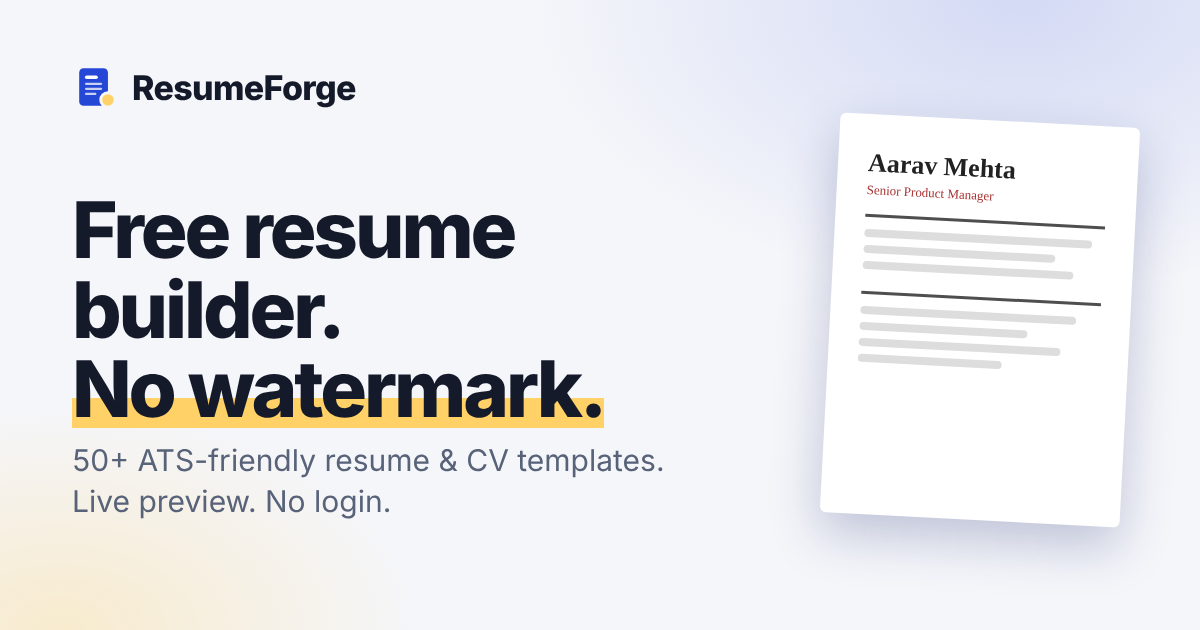
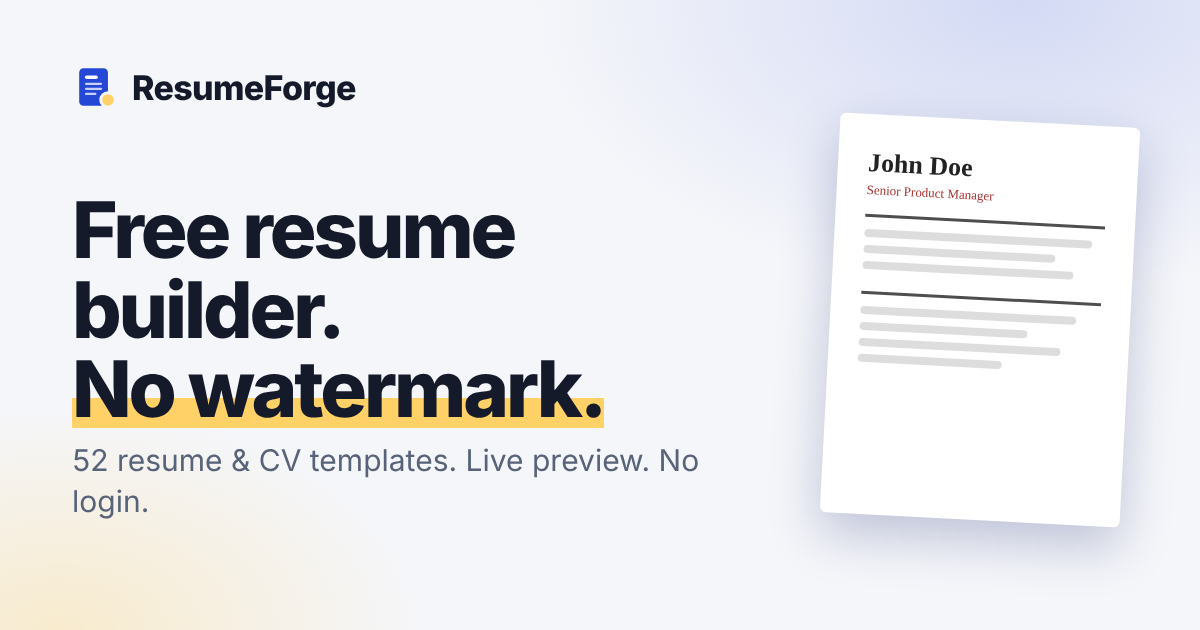
Resume templates: fix alignment, long-content wrapping and rating styles; sample name John Doe
- Bullet lists: '.rs ul { padding: 0 }' overrode list indentation, so markers hung
  outside the text column (worst on timeline and sidebar layouts)
- Text wraps at word level (break-word) so short words are never split mid-word;
  long emails/URLs get break points after @ / . _ instead of arbitrary cuts
- Plain contact lines use real '|' separators and wrap item-by-item
- Contact icons align to the first text line; right-aligned headers put icons on the right
- 'caps' headings use real uppercase instead of synthetic small caps
- Date ranges wrap only at the dash and get more room in two-column layouts
- Skill bars/dots align with the first line of the skill name; language fluency
  drops below the name when it does not fit instead of crushing it
- Long names step down in size; split header with photo keeps the name readable
- Phone numbers stay on one line; long skill tags wrap inside the column
- Sample resume, placeholders, hero mock-up and share image now use John Doe

Claude-Session: https://claude.ai/code/session_016ihc1zL2S7JThyUUN81oTp

Changed region(s): [[0.0617, 0.6937, 0.5858, 0.754], [0.0617, 0.7841, 0.3392, 0.8143], [0.7092, 0.2413, 0.8633, 0.3016]]

diff --git a/src/templates/resume.css b/src/templates/resume.css
@@ -15,7 +15,7 @@
   text-align: left;
   -webkit-print-color-adjust: exact;
   print-color-adjust: exact;
-  overflow-wrap: anywhere;
+  overflow-wrap: break-word;
   color-scheme: light;
 }
 .rs[data-page='Letter'] { width: 215.9mm; min-height: 279.4mm; }
@@ -27,9 +27,17 @@
 .rs-header { display: flex; align-items: center; gap: 5mm; margin-bottom: calc(var(--gap) * 1.1); flex-wrap: wrap; }
 .rs-id { flex: 1 1 60%; min-width: 0; }
 .rs-name { font-family: var(--hf); font-size: 2.35em; line-height: 1.1; font-weight: 700; color: var(--text); letter-spacing: -0.01em; }
+.rs-name[data-len='l'] { font-size: 2.05em; }
+.rs-name[data-len='xl'] { font-size: 1.75em; }
 .rs-title { font-size: 1.18em; color: var(--accent); margin-top: 1.2mm; font-weight: 500; }
 .rs-contacts { display: flex; flex-wrap: wrap; gap: 1mm 4.5mm; font-size: 0.96em; color: var(--muted); width: 100%; }
-.rs-contact { display: inline-flex; align-items: center; gap: 1.4mm; }
+.rs-contact { display: inline-flex; align-items: flex-start; gap: 1.4mm; }
+.rs-contact .rs-ic { margin-top: calc((1lh - 1.05em) / 2); }
+.rs-contacts.inline { display: block; }
+/* Each contact moves to the next line as a whole; only items longer than a line break inside. */
+.rs-contacts.inline .rs-contact { display: inline-block; max-width: 100%; vertical-align: top; }
+.rs-sep { color: color-mix(in srgb, var(--muted) 55%, white); padding: 0 0.6mm; }
+.rs[data-header='banner'] .rs-sep { color: var(--banner-muted); opacity: 0.6; }
 .rs-contacts.stacked { flex-direction: column; gap: 1.8mm; }
 .rs-photo { width: 27mm; height: 27mm; border-radius: 50%; object-fit: cover; flex: none; }
 .rs-photo-ph { display: grid; place-items: center; background: var(--tint); color: var(--accent); font-family: var(--hf); font-weight: 700; font-size: 2em; }
@@ -42,7 +50,15 @@
 .rs[data-header='underline'] .rs-header { border-bottom: 2.2pt solid var(--accent); padding-bottom: 3.5mm; }
 
 .rs[data-header='split'] .rs-header { flex-wrap: nowrap; align-items: flex-end; border-bottom: 1pt solid var(--line); padding-bottom: 3mm; }
-.rs[data-header='split'] .rs-contacts { width: auto; flex: 0 1 44%; flex-direction: column; align-items: flex-end; gap: 0.6mm; text-align: right; }
+.rs[data-header='split'] .rs-id { flex: 1 1 55%; }
+/* With a photo the split header has three parts; keep the name block from being crushed. */
+.rs[data-header='split'] .rs-header:has(.rs-photo) .rs-id { flex: 1 1 0; min-width: 40%; }
+.rs[data-header='split'] .rs-header:has(.rs-photo) .rs-contacts { flex-basis: 38%; }
+.rs[data-header='split'] .rs-header > .rs-photo { width: 22mm; height: 22mm; align-self: center; }
+.rs[data-header='split'] .rs-contacts { width: auto; flex: 0 1 42%; flex-direction: column; align-items: flex-end; gap: 0.6mm; text-align: right; }
+.rs[data-header='split'] .rs-contact { flex-direction: row-reverse; }
+.rs[data-header='split'] .rs-contacts.inline .rs-contact { display: block; }
+.rs[data-header='split'] .rs-contacts.inline .rs-sep { display: none; }
 
 .rs[data-header='banner'] { padding-top: 0; }
 .rs[data-header='banner'] .rs-header {
@@ -62,7 +78,7 @@
 .rs-st { font-family: var(--hf); font-size: 1.12em; font-weight: 700; color: var(--accent); margin-bottom: 2mm; letter-spacing: 0.02em; break-after: avoid; }
 .rs[data-title='rule'] .rs-st { text-transform: uppercase; border-bottom: 0.9pt solid var(--line); padding-bottom: 0.8mm; font-size: 1.02em; letter-spacing: 0.08em; }
 .rs[data-title='double'] .rs-st { text-transform: uppercase; border-top: 0.6pt solid var(--accent); border-bottom: 0.6pt solid var(--accent); padding: 0.8mm 0; text-align: center; letter-spacing: 0.16em; font-size: 0.98em; }
-.rs[data-title='caps'] .rs-st { font-variant: small-caps; text-transform: lowercase; font-size: 1.3em; letter-spacing: 0.06em; border-bottom: 0.5pt solid var(--line); }
+.rs[data-title='caps'] .rs-st { text-transform: uppercase; font-size: 1.04em; letter-spacing: 0.12em; border-bottom: 0.5pt solid var(--line); padding-bottom: 0.6mm; }
 .rs[data-title='bar'] .rs-st { border-left: 1.1mm solid var(--accent); padding-left: 2.2mm; text-transform: uppercase; letter-spacing: 0.08em; font-size: 1em; color: var(--text); }
 .rs[data-title='fill'] .rs-st { background: var(--tint); padding: 0.9mm 2mm; text-transform: uppercase; letter-spacing: 0.1em; font-size: 0.98em; }
 .rs[data-title='dotted'] .rs-st { text-transform: uppercase; letter-spacing: 0.1em; font-size: 1em; border-bottom: 1.2pt dotted var(--accent); padding-bottom: 0.6mm; }
@@ -73,43 +89,52 @@
 .rs-item { break-inside: avoid; }
 .rs-item + .rs-item { margin-top: calc(var(--gap) * 0.62); }
 .rs-row { display: flex; justify-content: space-between; align-items: baseline; gap: 3mm; }
-.rs-head { min-width: 0; }
+.rs-head { min-width: 0; flex: 1 1 auto; }
 .rs-it { font-weight: 700; color: var(--text); }
 .rs-sub { color: var(--text); }
 .rs-sub { display: block; margin-top: .4mm; }
 .rs-it + .rs-sub::before { content: ''; }
-.rs-date { flex: none; font-size: 0.96em; color: var(--muted); max-width: 34%; text-align: right; font-variant-numeric: tabular-nums; }
+.rs-date { flex: 0 0 auto; font-size: 0.96em; color: var(--muted); max-width: 42%; text-align: right; font-variant-numeric: tabular-nums; }
+.rs-nw { white-space: nowrap; }
 .rs-meta { font-size: 0.96em; color: var(--muted); font-style: italic; }
 .rs-p { margin: 0; }
 .rs-small { font-size: 0.96em; color: var(--muted); }
-.rs-ul { margin: 0.8mm 0 0; padding-left: 4.4mm; }
+.rs .rs-ul { margin: 0.8mm 0 0; padding-left: 4.4mm; }
 .rs-ul li { margin: 0.3mm 0; padding-left: 0.6mm; }
 .rs-ul li::marker { color: var(--accent); }
-.rs-ul.rs-plain { list-style: none; padding-left: 0; }
-.rs-ul.rs-plain li::before { content: '▪'; color: var(--accent); margin-right: 1.8mm; font-size: 0.8em; }
+.rs .rs-ul.rs-plain { list-style: none; padding-left: 0; }
+.rs-ul.rs-plain li { display: flex; gap: 1.8mm; padding-left: 0; }
+.rs-ul.rs-plain li::before { content: '▪'; color: var(--accent); font-size: 0.8em; flex: none; }
 
 .rs-tags { display: flex; flex-wrap: wrap; gap: 1.4mm; }
-.rs-tag { border: 0.6pt solid var(--line); background: var(--tint); padding: 0.5mm 2.2mm; border-radius: 1.2mm; font-size: 0.96em; }
+.rs-tag { border: 0.6pt solid var(--line); background: var(--tint); padding: 0.5mm 2.2mm; border-radius: 1.2mm; font-size: 0.96em; min-width: 0; max-width: 100%; }
 .rs-levels { display: flex; flex-direction: column; gap: 1.6mm; }
 .rs-levels.grid { display: grid; grid-template-columns: 1fr 1fr; gap: 1.6mm 8mm; }
-.rs-level { display: flex; align-items: center; justify-content: space-between; gap: 3mm; }
-.rs-bar { display: block; flex: 0 0 44%; height: 1.4mm; background: color-mix(in srgb, var(--accent) 16%, white); border-radius: 1mm; overflow: hidden; }
+.rs-level { display: flex; align-items: flex-start; justify-content: space-between; gap: 3mm; }
+.rs-level > span:first-child { min-width: 0; flex: 1 1 auto; }
+.rs-level > .rs-bar { margin-top: calc(0.5lh - 0.7mm); }
+.rs-level > .rs-dots { margin-top: calc(0.5lh - 1mm); }
+.rs-bar { display: block; flex: 0 0 40%; height: 1.4mm; background: color-mix(in srgb, var(--accent) 16%, white); border-radius: 1mm; overflow: hidden; }
 .rs-levels:not(.grid) .rs-level { flex-direction: column; align-items: stretch; gap: 0.8mm; }
-.rs-levels:not(.grid) .rs-bar { flex: none; width: 100%; }
-.rs-levels:not(.grid) .rs-level:has(.rs-dots) { flex-direction: row; align-items: center; }
+.rs-levels:not(.grid) .rs-bar { flex: none; width: 100%; margin-top: 0; }
+.rs-levels:not(.grid) { gap: 2.4mm; }
+.rs-levels:not(.grid) .rs-level:has(.rs-dots) { flex-direction: row; align-items: flex-start; }
 .rs-bar i { display: block; height: 100%; background: var(--accent); border-radius: 1mm; }
 .rs-dots { display: inline-flex; gap: 0.9mm; flex: none; }
 .rs-dots i { width: 2mm; height: 2mm; border-radius: 50%; border: 0.6pt solid var(--accent); }
 .rs-dots i.on { background: var(--accent); }
 .rs-kv { display: flex; flex-direction: column; gap: 1mm; }
-.rs-kv > div { display: flex; justify-content: space-between; gap: 2mm; }
+.rs-kv > div { display: flex; flex-wrap: wrap; justify-content: space-between; column-gap: 2mm; }
+/* Fits on one line: fluency sits at the right edge. Too long: it drops below the name, left-aligned. */
+.rs-kv > div > span { flex: 1 0 auto; max-width: 100%; }
+.rs-kv em { flex: 0 1 auto; text-align: left; }
 .rs-kv em { color: var(--muted); font-style: normal; font-size: 0.96em; }
 
 /* ===== Layout: sidebar ===== */
 .rs[data-layout='sidebar'] { display: grid; grid-template-columns: 32% minmax(0, 1fr); padding: 0; }
 .rs[data-layout='sidebar'][data-side='right'] { grid-template-columns: minmax(0, 1fr) 32%; }
 .rs[data-layout='sidebar'][data-side='right'] .rs-side { order: 2; }
-.rs-side { background: var(--side-bg); color: var(--side-fg); padding: var(--pad) calc(var(--pad) * 0.75); display: flex; flex-direction: column; }
+.rs-side { background: var(--side-bg); color: var(--side-fg); padding: var(--pad) calc(var(--pad) * 0.62); display: flex; flex-direction: column; }
 .rs-side .rs-photo { width: 34mm; height: 34mm; margin: 0 auto calc(var(--gap)); border: 1mm solid color-mix(in srgb, var(--side-fg) 18%, transparent); }
 .rs-side .rs-sec:first-of-type { margin-top: 0; }
 .rs-side .rs-st { color: var(--side-accent); border-color: color-mix(in srgb, var(--side-fg) 30%, transparent); }
@@ -161,10 +186,10 @@
 .rs[data-layout='minimal'] .rs-ul li::marker { color: var(--muted); }
 
 /* Readable links and restrained supporting information, also preserved in PDF. */
-.rs a { color: inherit; text-decoration: underline; text-underline-offset: .15em; overflow-wrap: anywhere; }
+.rs a { color: inherit; text-decoration: underline; text-underline-offset: .15em; }
 .rs-contacts a { text-decoration-thickness: .5pt; }
 .rs-contact { min-width: 0; max-width: 100%; }
-.rs-contact > span, .rs-contact > a { min-width: 0; }
+.rs-contact > span, .rs-contact > a, .rs-header > .rs-contacts { min-width: 0; }
 .rs-skill-groups { display: flex; flex-direction: column; gap: 1.6mm; }
 .rs[data-layout='sidebar'] .rs-date, .rs-aside .rs-date { max-width: none; text-align: left; }
 .rs[data-layout='labels'] .rs-st { overflow-wrap: normal; hyphens: auto; }

diff --git a/src/templates/Resume.jsx b/src/templates/Resume.jsx
@@ -6,6 +6,38 @@ import { bulletsOf, sectionTitle, SIDE_SECTIONS } from '../data/schema.js';
 const range = (a, b) => [a, b].filter(Boolean).join(' – ');
 const has = (v) => v != null && String(v).trim() !== '';
 
+// Date range that only wraps at the dash ("September 2019 –" / "Present"), never inside a date.
+function DateRange({ a, b }) {
+  const parts = [a, b].filter(has);
+  return parts.map((x, i) => (
+    <React.Fragment key={i}>
+      {i > 0 && ' – '}
+      <span className="rs-nw">{x}</span>
+    </React.Fragment>
+  ));
+}
+
+// Long URLs/emails: offer line-break points after / @ . _ ? & = so they wrap at sensible places
+// instead of mid-word. <wbr> adds no characters, so copied/parsed text is unchanged.
+function Breakable({ text }) {
+  const str = String(text);
+  const parts = str.split(/(?<=[/@._?&=])/);
+  let seen = 0;
+  return parts.map((x, i) => {
+    const prev = parts[i - 1];
+    seen += x.length;
+    // Always allow a break after "@"; elsewhere only if a decent chunk follows,
+    // so "email.com" or "about/me" never leave a lonely "com" / "me" on the next line.
+    const ok = i > 0 && (/@$/.test(prev) || str.length - (seen - x.length) > 6);
+    return (
+      <React.Fragment key={i}>
+        {ok && <wbr />}
+        {x}
+      </React.Fragment>
+    );
+  });
+}
+
 const Icon = ({ k }) => {
   const p = {
     email: 'M3 5h18v14H3z M3 6l9 7 9-7',
@@ -25,7 +57,8 @@ const Icon = ({ k }) => {
 function Link({ value, kind }) {
   const href = kind ? contactHref(kind, value) : webHref(value);
   const label = ['email', 'phone', 'location'].includes(kind) ? value : linkLabel(value);
-  return href ? <a href={href} target={href.startsWith('http') ? '_blank' : undefined} rel="noopener noreferrer">{label}</a> : <span>{value}</span>;
+  const content = kind === 'phone' ? <span className="rs-nw">{label}</span> : kind === 'location' ? label : <Breakable text={label} />;
+  return href ? <a href={href} target={href.startsWith('http') ? '_blank' : undefined} rel="noopener noreferrer">{content}</a> : <span>{content}</span>;
 }
 
 const CONTACT_KEYS = ['email', 'phone', 'location', 'website', 'linkedin', 'github'];
@@ -33,6 +66,18 @@ const CONTACT_KEYS = ['email', 'phone', 'location', 'website', 'linkedin', 'gith
 function Contacts({ p, icons, stacked }) {
   const items = CONTACT_KEYS.filter((k) => has(p[k]));
   if (!items.length) return null;
+  if (!icons && !stacked)
+    // Plain text line with real "|" separators: easy for ATS parsers to split, and lines only break after a separator.
+    return (
+      <div className="rs-contacts inline">
+        {items.map((k, i) => (
+          <React.Fragment key={k}>
+            <span className="rs-contact"><Link kind={k} value={p[k]} /></span>
+            {i < items.length - 1 && <span className="rs-sep">{'\u00a0| '}</span>}
+          </React.Fragment>
+        ))}
+      </div>
+    );
   return (
     <div className={'rs-contacts' + (stacked ? ' stacked' : '')}>
       {items.map((k) => (
@@ -69,6 +114,7 @@ function Bullets({ text }) {
 }
 
 function Entry({ title, sub, date, meta, link, children }) {
+  const hasDate = Array.isArray(date) ? date.some(has) : has(date);
   return (
     <div className="rs-item">
       <div className="rs-row">
@@ -76,7 +122,7 @@ function Entry({ title, sub, date, meta, link, children }) {
           {has(title) && <span className="rs-it">{title}</span>}
           {has(sub) && <span className="rs-sub">{link ? <Link value={sub} /> : sub}</span>}
         </div>
-        {has(date) && <div className="rs-date">{date}</div>}
+        {hasDate && <div className="rs-date">{Array.isArray(date) ? <DateRange a={date[0]} b={date[1]} /> : date}</div>}
       </div>
       {has(meta) && <div className="rs-meta">{meta}</div>}
       {children}
@@ -90,25 +136,25 @@ function SectionBody({ k, r, s, inSide }) {
       return has(r.summary) ? <p className="rs-p">{r.summary}</p> : null;
     case 'experience':
       return r.experience.map((e) => (
-        <Entry key={e.id} title={e.role} sub={e.company} date={range(e.start, e.end)} meta={e.location}>
+        <Entry key={e.id} title={e.role} sub={e.company} date={[e.start, e.end]} meta={e.location}>
           <Bullets text={e.bullets} />
         </Entry>
       ));
     case 'education':
       return r.education.map((e) => (
-        <Entry key={e.id} title={e.degree} sub={e.school} date={range(e.start, e.end)} meta={[e.location, e.grade].filter(Boolean).join(' · ')}>
+        <Entry key={e.id} title={e.degree} sub={e.school} date={[e.start, e.end]} meta={[e.location, e.grade].filter(Boolean).join(' · ')}>
           <Bullets text={e.bullets} />
         </Entry>
       ));
     case 'projects':
       return r.projects.map((e) => (
-        <Entry key={e.id} title={e.name} sub={e.link} link date={range(e.start, e.end)}>
+        <Entry key={e.id} title={e.name} sub={e.link} link date={[e.start, e.end]}>
           <Bullets text={e.bullets} />
         </Entry>
       ));
     case 'volunteer':
       return r.volunteer.map((e) => (
-        <Entry key={e.id} title={e.role} sub={e.org} date={range(e.start, e.end)}>
+        <Entry key={e.id} title={e.role} sub={e.org} date={[e.start, e.end]}>
           <Bullets text={e.bullets} />
         </Entry>
       ));
@@ -126,7 +172,7 @@ function SectionBody({ k, r, s, inSide }) {
       ));
     case 'publications':
       return r.publications.map((e) => (
-        <Entry key={e.id} title={e.title} sub={e.publisher} date={e.date}><div className="rs-meta"><Link value={e.link} /></div></Entry>
+        <Entry key={e.id} title={e.title} sub={e.publisher} date={e.date}>{has(e.link) && <div className="rs-meta"><Link value={e.link} /></div>}</Entry>
       ));
     case 'certifications':
       return r.certifications.map((e) => <Entry key={e.id} title={e.name} sub={e.issuer} date={e.date} />);
@@ -137,7 +183,7 @@ function SectionBody({ k, r, s, inSide }) {
         </Entry>
       ));
     case 'references':
-      return r.references.map((e) => <Entry key={e.id} title={e.name} sub={e.position} meta={e.contact} />);
+      return r.references.map((e) => <Entry key={e.id} title={e.name} sub={e.position} meta={has(e.contact) ? <Breakable text={e.contact} /> : ''} />);
     case 'skills': {
       const list = r.skills.filter((x) => has(x.name));
       let mode = s.skills;
@@ -163,7 +209,7 @@ function SectionBody({ k, r, s, inSide }) {
       const list = r.languages.filter((x) => has(x.name));
       if (inSide || s.layout === 'twocol')
         return <div className="rs-kv">{list.map((x) => <div key={x.id}><span>{x.name}</span><em>{x.fluency}</em></div>)}</div>;
-      return <p className="rs-p">{list.map((x) => (x.fluency ? `${x.name} (${x.fluency})` : x.name)).join('  •  ')}</p>;
+      return <p className="rs-p">{list.map((x) => (!x.fluency ? x.name : /\)\s*$/.test(x.name) ? `${x.name} – ${x.fluency}` : `${x.name} (${x.fluency})`)).join('  •  ')}</p>;
     }
     case 'interests': {
       const list = r.interests.filter((x) => has(x.name));
@@ -187,13 +233,16 @@ function Section({ k, r, s, inSide }) {
   );
 }
 
+// Very long names step down in size so they stay on one or two lines instead of three or four.
+const nameLen = (n) => { const l = String(n || '').trim().length; return l > 36 ? 'xl' : l > 24 ? 'l' : undefined; };
+
 function Header({ r, s, showPhoto, compactContacts }) {
   const p = r.personal;
   return (
     <header className="rs-header">
       {showPhoto && <Photo src={p.photo} name={p.fullName} />}
       <div className="rs-id">
-        <h1 className="rs-name">{p.fullName || 'Your Name'}</h1>
+        <h1 className="rs-name" data-len={nameLen(p.fullName)}>{p.fullName || 'Your Name'}</h1>
         {has(p.jobTitle) && <div className="rs-title">{p.jobTitle}</div>}
       </div>
       {!compactContacts && <Contacts p={p} icons={s.layout !== 'classic' && s.layout !== 'compact' && s.header !== 'center'} />}

diff --git a/src/data/samples.js b/src/data/samples.js
@@ -4,13 +4,13 @@ import { normalizeResume } from './schema.js';
 // Example content for each audience. Shown in template thumbnails and loadable in the builder.
 const professional = {
   personal: {
-    fullName: 'Aarav Mehta',
+    fullName: 'John Doe',
     jobTitle: 'Senior Product Manager',
-    email: 'aarav.mehta@email.com',
+    email: 'john.doe@email.com',
     phone: '+91 98765 43210',
     location: 'Bengaluru, India',
-    website: 'aaravmehta.dev',
-    linkedin: 'linkedin.com/in/aaravmehta',
+    website: 'johndoe.dev',
+    linkedin: 'linkedin.com/in/johndoe',
     github: '',
     photo: '',
   },
@@ -40,7 +40,7 @@ const professional = {
     { name: 'Jira & Confluence', level: 4 }, { name: 'Payments & Fintech', level: 5 },
   ],
   projects: [
-    { name: 'Open-source PRD Toolkit', link: 'github.com/aarav/prd-kit', start: '2023', end: '', bullets: 'Templates and checklists for product specs; 1.8k GitHub stars' },
+    { name: 'Open-source PRD Toolkit', link: 'github.com/johndoe/prd-kit', start: '2023', end: '', bullets: 'Templates and checklists for product specs; 1.8k GitHub stars' },
   ],
   certifications: [
     { name: 'Certified Scrum Product Owner (CSPO)', issuer: 'Scrum Alliance', date: '2020' },

diff --git a/src/pages/Home.jsx b/src/pages/Home.jsx
@@ -66,7 +66,7 @@ export default function Home() {
             <div className="demo-body">
               <div className="demo-panel">
                 <div className="demo-tabs"><b>Content</b><span>Design</span></div>
-                <div className="demo-field"><small>Full name</small><div>Aarav Mehta<u className="caret" /></div></div>
+                <div className="demo-field"><small>Full name</small><div>John Doe<u className="caret" /></div></div>
                 <div className="demo-field"><small>Job title</small><div>Senior Product Manager</div></div>
                 <div className="demo-chips"><span className="on">Summary</span><span>Experience</span><span>Skills</span></div>
                 <div className="demo-lines"><i /><i /><i /></div>

diff --git a/src/builder/Editor.jsx b/src/builder/Editor.jsx
@@ -273,7 +273,7 @@ function Personal({ open, onToggle }) {
           </div>
         </div>
         <div className="fields">
-          {F('fullName', 'Full name', 'Aarav Mehta')}
+          {F('fullName', 'Full name', 'John Doe')}
           {F('jobTitle', 'Job title / headline', 'Senior Product Manager')}
           {F('email', 'Email', 'you@email.com', 'half', 'email')}
           {F('phone', 'Phone', '+91 98765 43210', 'half', 'tel')}
